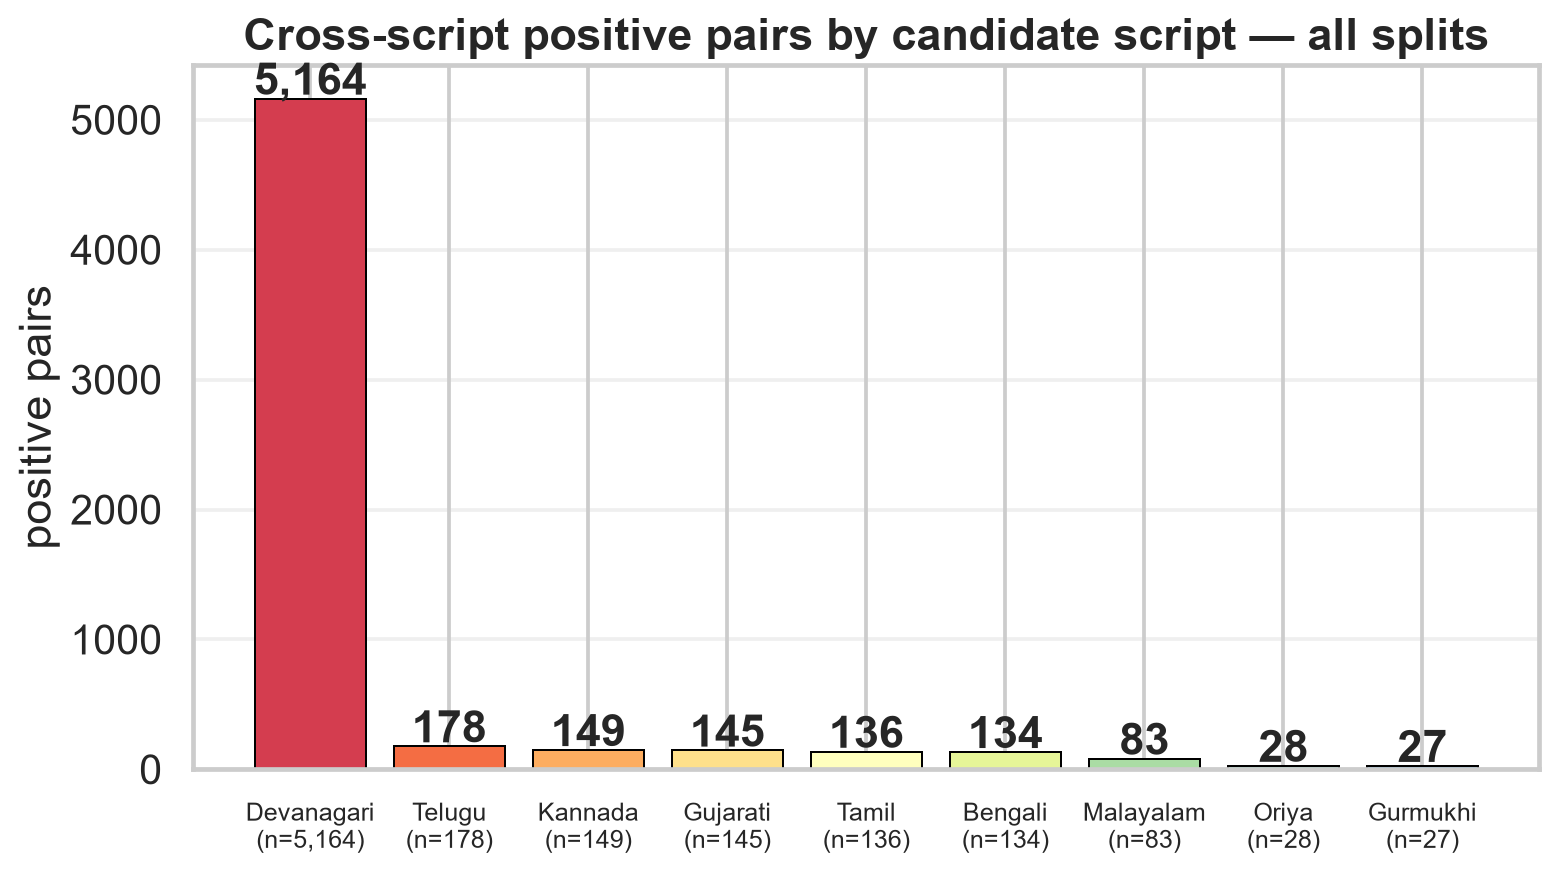
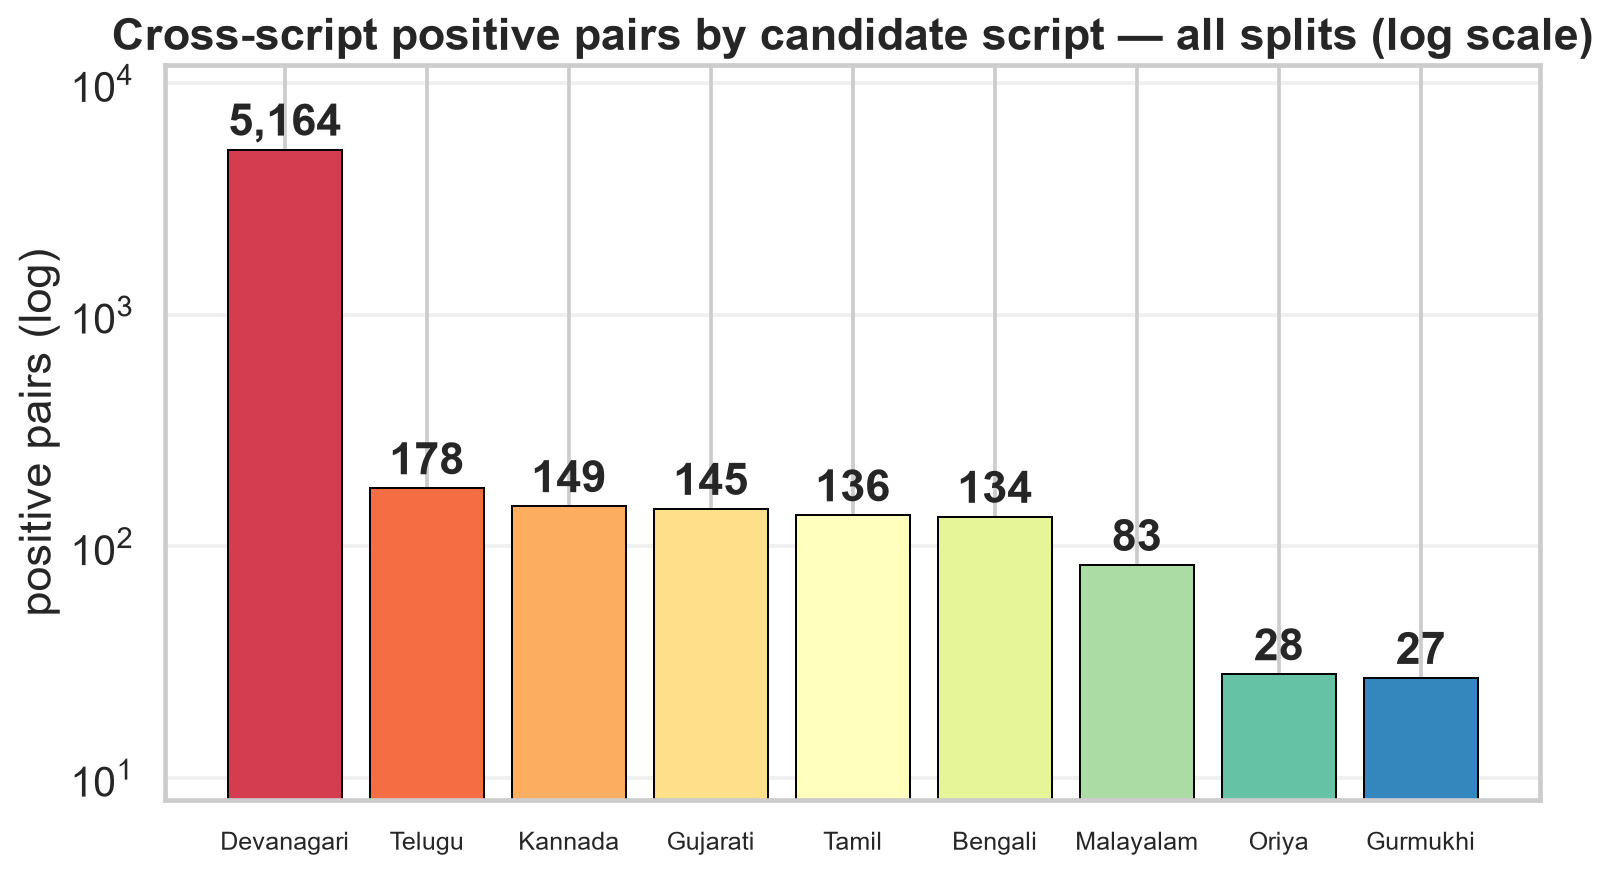
figures: all 7 report figures visually verified (fig5 bbox-collision check added)

Changed region(s): [[0.0, 0.0, 1.0, 0.9897]]

diff --git a/code/business_entity_resolution/baselines/make_figures.py b/code/business_entity_resolution/baselines/make_figures.py
@@ -92,7 +92,8 @@ def fig1_composition() -> None:
 
 
 def fig2_script_distribution() -> None:
-    """Cross-script positive pairs per Indic script (train+val+test)."""
+    """Cross-script positive pairs per Indic script (train+val+test).
+    Log y-scale: 6 of 9 scripts sit under 200 and vanish on a linear axis."""
     n = {}
     for split in ("train", "val", "test"):
         df = pd.read_csv(DATA / f"{split}_pairs.tsv", sep="\t", usecols=["candidate_name", "label", "pair_type"])
@@ -110,19 +111,22 @@ def fig2_script_distribution() -> None:
     fig, ax = plt.subplots(figsize=(9, 5.2))
     colors = sns.color_palette("Spectral", len(s))
     ax.bar(range(len(s)), s.values, color=colors, edgecolor="black", linewidth=0.8)
+    ax.set_yscale("log")
+    ax.set_ylim(8, 12000)  # headroom above 5,164 for the value labels
     ax.set_xticks(range(len(s)))
-    ax.set_xticklabels([f"{k}\n(n={int(v):,})" for k, v in s.items()], fontsize=10)
+    ax.set_xticklabels([f"{k}" for k in s.keys()], fontsize=10)
     for i, v in enumerate(s.values):
-        ax.text(i, v + 30, f"{int(v):,}", ha="center", fontweight="bold")
-    ax.set_title("Cross-script positive pairs by candidate script — all splits", fontweight="bold")
-    ax.set_ylabel("positive pairs"); ax.grid(axis="y", alpha=0.3)
+        ax.text(i, v * 1.15, f"{int(v):,}", ha="center", fontweight="bold")
+    ax.set_title("Cross-script positive pairs by candidate script — all splits (log scale)", fontweight="bold")
+    ax.set_ylabel("positive pairs (log)"); ax.grid(axis="y", alpha=0.3)
     fig.tight_layout()
     fig.savefig(FIGS / "fig2_script_distribution.png", dpi=180, bbox_inches="tight")
     plt.close(fig)
 
 
 def fig3_model_performance(reports) -> None:
-    """Progression: overall F0.5 by model (the central bar chart)."""
+    """Progression: overall F0.5 by model (the central bar chart).
+    Full 0-1 axis: differences are genuinely tiny, don't inflate them."""
     models = [m for m in MODEL_ORDER if m in reports] + ["modelA_name_address"]
     models = list(dict.fromkeys(models))
     f05 = [reports[m]["test"]["overall"]["f0.5"] for m in models if m in reports]
@@ -130,9 +134,11 @@ def fig3_model_performance(reports) -> None:
     fig, ax = plt.subplots(figsize=(10.5, 5.6))
     bars = ax.bar(labels, f05, color=PALETTE, edgecolor="black", linewidth=1.0)
     for b, v in zip(bars, f05):
-        ax.text(b.get_x() + b.get_width() / 2, v + 0.004, f"{v:.4f}", ha="center", fontweight="bold", fontsize=11)
-    ax.set_ylim(0.85, 1.005)
-    ax.set_ylabel("F0.5 (test split)"); ax.set_title("Model progression — overall F0.5", fontweight="bold", pad=14)
+        ax.text(b.get_x() + b.get_width() / 2, v + 0.008, f"{v:.4f}", ha="center", fontweight="bold", fontsize=11)
+    ax.set_ylim(0, 1.0)  # honest baseline: differences are small, say so
+    ax.set_ylabel("F0.5 (test split)")
+    ax.set_title("Model progression — overall F0.5 (all bars near 1.0: improvements are incremental)", fontweight="bold", pad=14, fontsize=12)
+    ax.axhline(1.0, color="gray", linestyle=":", alpha=0.6)
     ax.grid(axis="y", alpha=0.3)
     plt.setp(ax.get_xticklabels(), rotation=18, ha="right")
     fig.tight_layout()
@@ -141,21 +147,24 @@ def fig3_model_performance(reports) -> None:
 
 
 def fig4_same_vs_cross(reports) -> None:
-    """Grouped bars: same-script vs cross-script F0.5, models on the x axis."""
+    """Grouped bars: same-script vs cross-script F0.5, models on the x axis.
+    Legend moved OUT of the axes (it was hiding the headline A′ bars)."""
     models = [m for m in MODEL_ORDER if m in reports]
     same = [reports[m]["test"]["same_script"]["f0.5"] for m in models]
     cross = [reports[m]["test"]["cross_script"]["f0.5"] for m in models]
     labels = [MODEL_LABELS[m] for m in models]
     x = np.arange(len(models))
     w = 0.38
-    fig, ax = plt.subplots(figsize=(11, 5.8))
+    fig, ax = plt.subplots(figsize=(11.5, 5.8))
     ax.bar(x - w / 2, same, w, label="Same-script F0.5", color=PALETTE[0], edgecolor="black")
     ax.bar(x + w / 2, cross, w, label="Cross-script F0.5", color=PALETTE[1], edgecolor="black")
     for xi, (sv, cv) in enumerate(zip(same, cross)):
-        ax.text(xi - w / 2, sv + 0.006, f"{sv:.3f}", ha="center", fontsize=9, fontweight="bold")
-        ax.text(xi + w / 2, cv + 0.006, f"{cv:.3f}", ha="center", fontsize=9, fontweight="bold")
+        ax.text(xi - w / 2, sv + 0.01, f"{sv:.3f}", ha="center", fontsize=9, fontweight="bold")
+        ax.text(xi + w / 2, cv + 0.01, f"{cv:.3f}", ha="center", fontsize=9, fontweight="bold")
     ax.set_xticks(x); ax.set_xticklabels(labels, rotation=14, ha="right", fontsize=10)
-    ax.set_ylim(0, 1.05); ax.set_ylabel("F0.5"); ax.legend(loc="lower right", framealpha=0.95)
+    ax.set_ylim(0, 1.12); ax.set_ylabel("F0.5")
+    # legend below the axes, horizontal — nothing overlaps the data
+    ax.legend(loc="upper center", bbox_to_anchor=(0.5, -0.16), ncol=2, frameon=True, framealpha=1.0)
     ax.set_title("Same-script vs cross-script F0.5 — the research axis", fontweight="bold", pad=14)
     ax.grid(axis="y", alpha=0.3)
     fig.tight_layout()
@@ -164,7 +173,8 @@ def fig4_same_vs_cross(reports) -> None:
 
 
 def fig5_per_script_heatmap(reports) -> None:
-    """Rows=script, cols=model, values=cross-script recall/F0.5."""
+    """Rows=script, cols=model, values=cross-script recall/F0.5.
+    Colorblind-safe map (crest/viridis family), one SHARED colorbar, Oriya caveat."""
     models = [m for m in MODEL_ORDER if m in reports]
     data_r = pd.DataFrame({MODEL_LABELS[m]: {
         s: reports[m]["test"]["cross_script_by_script"].get(s, {}).get("recall", np.nan) for s in SCRIPT_ORDER
@@ -179,19 +189,67 @@ def fig5_per_script_heatmap(reports) -> None:
                 n_by[s] = e["tp"] + e["fn"]
     ylabels = [f"{s} (n={n_by.get(s, 0)})" for s in data_r.index]
 
-    fig, axes = plt.subplots(1, 2, figsize=(17, 5.8))
-    fig.suptitle("Cross-script performance by candidate script (test split)", fontweight="bold", y=1.02, fontsize=14)
-    for ax, dat, title, cmap in [
-        (axes[0], data_r, "Recall", "RdYlGn"),
-        (axes[1], data_f, "F0.5", "RdYlGn"),
-    ]:
+    fig, axes = plt.subplots(1, 2, figsize=(16.5, 6.5))
+    fig.suptitle("Cross-script performance by candidate script (test split) — colorblind-safe map", fontweight="bold", y=0.98, fontsize=14)
+    cmap = "coolwarm"
+    SHORT = {"TF-IDF char": "char", "TF-IDF word": "word", "TF-IDF both": "both",
+             "E5 pretrained": "E5", "E5 + contrastive": "C", "E5 + hard negs": "D",
+             "E5 + address (A')": "A′"}
+    for ax, dat, title in [(axes[0], data_r, "Recall"), (axes[1], data_f, "F0.5")]:
+        dat = dat.rename(columns=SHORT)
         sns.heatmap(dat, annot=True, fmt=".2f", cmap=cmap, vmin=0, vmax=1,
-                    annot_kws={"fontsize": 10, "fontweight": "bold"},
-                    linewidths=1.4, linecolor="white", cbar_kws={"shrink": 0.85}, ax=ax)
-        ax.set_yticklabels(ylabels, rotation=0, fontsize=10)
+                    annot_kws={"fontsize": 11, "fontweight": "bold"},
+                    linewidths=1.4, linecolor="white", ax=ax)
+        ax.set_yticklabels(ylabels, rotation=0, fontsize=11)
         ax.set_title(title, fontweight="bold")
         ax.set_xlabel("")
-    fig.tight_layout()
+        ax.set_ylabel("")
+        ax.tick_params(axis="x", rotation=45, labelsize=11)
+        for lab in ax.get_xticklabels():
+            lab.set_horizontalalignment("right")
+    # Right-margin VERTICAL colorbar: cannot collide with bottom x-labels.
+    fig.subplots_adjust(bottom=0.26, top=0.86, left=0.11, right=0.86, wspace=0.28)
+    import matplotlib.colors
+    import matplotlib.cm
+    norm = matplotlib.colors.Normalize(vmin=0, vmax=1)
+    sm = matplotlib.cm.ScalarMappable(norm=norm, cmap=cmap)
+    cax = fig.add_axes([0.885, 0.30, 0.018, 0.52])
+    cbar = fig.colorbar(sm, cax=cax, orientation="vertical")
+    cbar.set_ticks([0.0, 0.25, 0.5, 0.75, 1.0])
+    cbar.set_ticklabels(["0", ".25", ".5", ".75", "1"])
+    cbar.ax.tick_params(labelsize=9)
+    cbar.set_label("score", fontsize=9)
+    # caveat in its own bottom strip, well clear of the 45° labels
+    fig.text(0.485, 0.045, "Oriya (n=1) and Gurmukhi (n=5) are anecdotal — per-script claims rest on Devanagari (n=763).",
+             ha="center", fontsize=10, style="italic")
+
+    # --- programmatic collision check: NO text may intersect another's bbox ---
+    fig.canvas.draw()
+    renderer = fig.canvas.get_renderer()
+    boxes = []
+    for ax_ in axes:
+        for lab in ax_.get_xticklabels() + ax_.get_yticklabels():
+            if lab.get_text():
+                boxes.append((f"tick:{lab.get_text()[:18]}", lab.get_window_extent(renderer)))
+    cbar_texts = [cbar.ax.xaxis.label, *cbar.ax.get_yticklabels(), cbar.ax.yaxis.label]
+    for t in cbar_texts:
+        if t.get_text():
+            boxes.append((f"cbar:{t.get_text()[:10]}", t.get_window_extent(renderer)))
+    cav = fig.texts[-1]
+    boxes.append(("caveat", cav.get_window_extent(renderer)))
+    # colorbar BAR bbox vs every text bbox
+    cax_bb = cax.get_window_extent(renderer)
+    collisions = []
+    for name, bb in boxes:
+        if bb.overlaps(cax_bb):
+            collisions.append((name, "colorbar-bar"))
+    for i in range(len(boxes)):
+        for j in range(i + 1, len(boxes)):
+            (n1, b1), (n2, b2) = boxes[i], boxes[j]
+            if b1.overlaps(b2):
+                collisions.append((n1, n2))
+    if collisions:
+        raise SystemExit(f"figure-bbox collision: {collisions}")
     fig.savefig(FIGS / "fig5_per_script_heatmap.png", dpi=180, bbox_inches="tight")
     plt.close(fig)
 
@@ -248,17 +306,29 @@ def fig7_umap_contrastive() -> None:
         return "Latin"
     scripts = df["candidate_name"].map(script_of).values
 
-    fig, axes = plt.subplots(1, 2, figsize=(15.5, 6.4))
+    fig, axes = plt.subplots(1, 2, figsize=(16.5, 6.4), gridspec_kw={"wspace": 0.06})
     fig.suptitle("UMAP of candidate-name embeddings (2,000 val pairs) — pretrained vs contrastively fine-tuned", fontweight="bold", y=1.0)
+    uniq = sorted(set(scripts))
+    cmap = "husl"
+    pal = dict(zip(uniq, sns.color_palette(cmap, len(uniq))))
+    last_z = None
     for ax, emb, title in [(axes[0], emb_b, "E5 pretrained (modelB)"), (axes[1], emb_c, "E5 + contrastive (modelC)")]:
         z = umap.UMAP(n_neighbors=30, min_dist=0.25, metric="cosine", random_state=42).fit_transform(emb)
-        pal = dict(zip(sorted(set(scripts)), sns.color_palette("husl", len(set(scripts)))))
-        for s in sorted(set(scripts)):
+        last_z = z
+        for s in uniq:
             m = scripts == s
-            ax.scatter(z[m, 0], z[m, 1], s=14, alpha=0.7, color=pal[s], label=s if s in ("Latin", "Devanagari") else (s if s != "Latin" else None), edgecolors="none")
+            ax.scatter(z[m, 0], z[m, 1], s=26, alpha=0.75, color=pal[s], edgecolors="none")
         ax.set_title(title, fontweight="bold"); ax.set_xticks([]); ax.set_yticks([])
         ax.grid(False)
-    axes[0].legend(markerscale=2.4, fontsize=9, loc="best", framealpha=0.9)
+        ax.set_xlabel("UMAP-1"); ax.set_ylabel("UMAP-2")
+    # single shared legend OUTSIDE (right of the 2 panels), full script list
+    handles = [plt.Line2D([0], [0], marker="o", color="w", markerfacecolor=pal[s], markersize=9) for s in uniq]
+    leg = fig.legend(handles, uniq, loc="center right", bbox_to_anchor=(1.0, 0.5),
+                     ncol=1, fontsize=9, framealpha=1.0, title="candidate script",
+                     markerscale=1.0, labelspacing=0.7)
+    fig.subplots_adjust(right=0.86)  # leave room for the outside legend
+    fig.text(0.43, -0.03, "UMAP axes are unscaled — only relative cluster structure is meaningful.",
+             ha="center", fontsize=10, style="italic")
     fig.tight_layout()
     fig.savefig(FIGS / "fig7_umap_pretrained_vs_contrastive.png", dpi=180, bbox_inches="tight")
     plt.close(fig)
@@ -290,10 +360,14 @@ def fig8_address_ablation() -> None:
         ax.set_title(metric, fontweight="bold"); ax.set_ylim(0.95, 1.006)
         ax.set_xlabel(""); ax.grid(axis="y", alpha=0.3)
         ax.tick_params(axis="x", rotation=0, labelsize=9)
-        if metric == "F0.5":
-            ax.legend(loc="upper left", fontsize=8)
-        else:
-            ax.get_legend().remove()
+        ax.get_legend().remove()
+    # shared legend UNDER the 3 panels — was overlapping the headline A′ bar
+    handles = [plt.Rectangle((0, 0), 1, 1, facecolor=PALETTE[3], edgecolor="black"),
+               plt.Rectangle((0, 0), 1, 1, facecolor=PALETTE[0], edgecolor="black")]
+    fig.legend(handles, ["Name-only (D)", "Name+address (A′)"], loc="upper center",
+               bbox_to_anchor=(0.5, -0.02), ncol=2, fontsize=10, framealpha=1.0)
+    fig.text(0.5, -0.08, "n_pos=173 for addr_missing (tiny sample) — treat that slice as anecdotal.",
+             ha="center", fontsize=9, style="italic")
     fig.tight_layout()
     fig.savefig(FIGS / "fig8_address_ablation.png", dpi=180, bbox_inches="tight")
     plt.close(fig)
